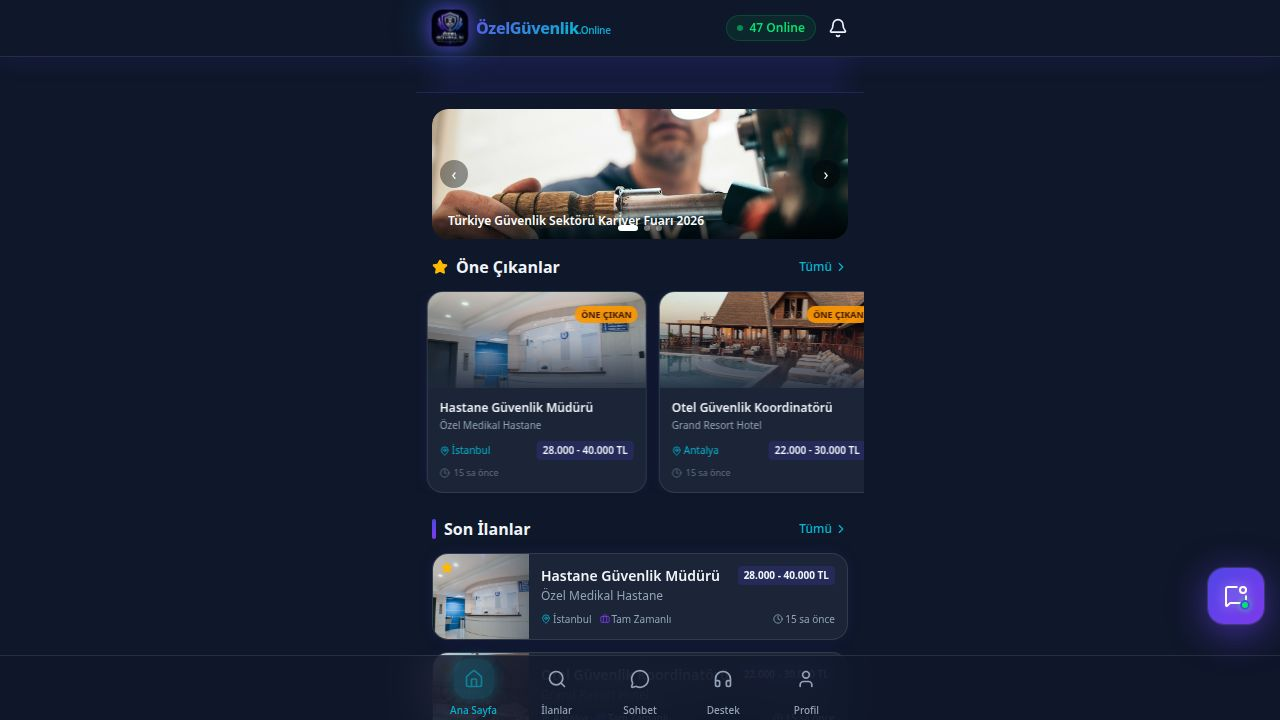
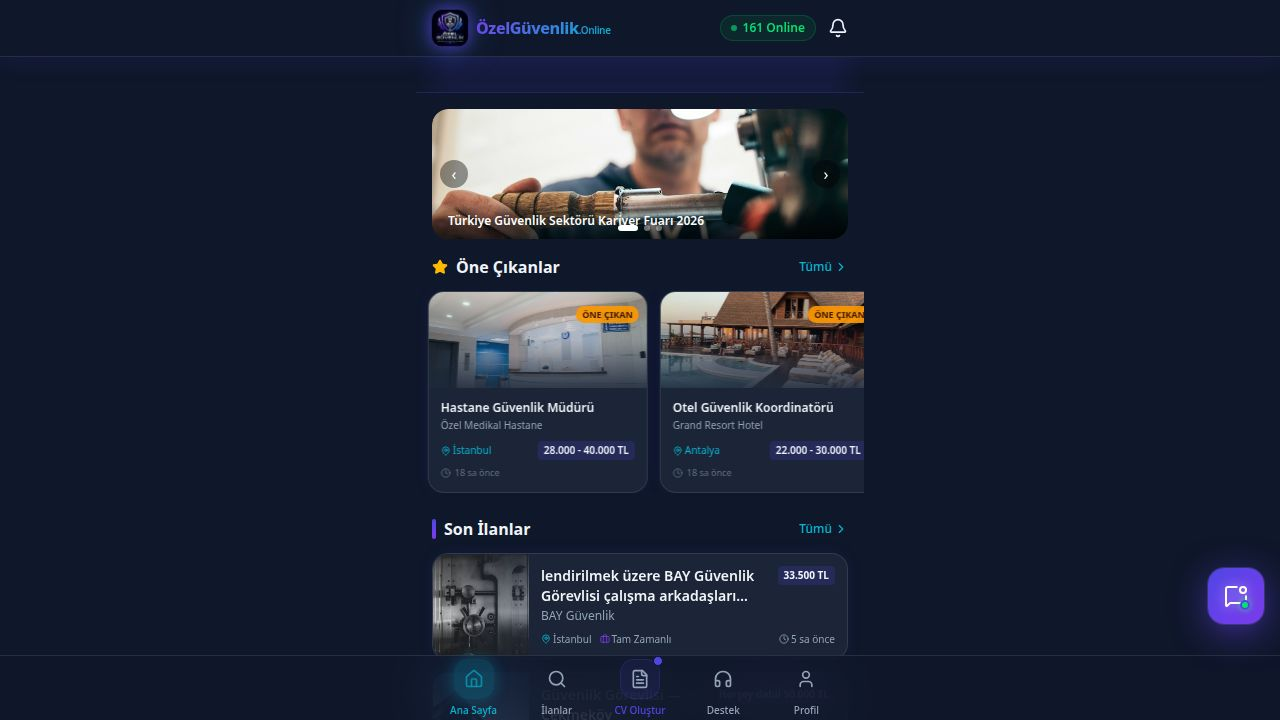
Update PWA cache to ensure latest version is served
Update service worker cache name and version.json to bust the PWA cache and force a fresh download of assets.

Replit-Commit-Author: Agent
Replit-Commit-Session-Id: 4cdea2e6-d00a-4730-9c5d-47da9fec826f
Replit-Commit-Checkpoint-Type: full_checkpoint
Replit-Commit-Event-Id: 1a5abd7f-efc0-4735-9a95-af0dc21b0b1d
Replit-Commit-Screenshot-Url: https://storage.googleapis.com/screenshot-production-us-central1/65e8e92a-d1c8-454b-961b-f1bf0231ebd1/4cdea2e6-d00a-4730-9c5d-47da9fec826f/ZoNHA7T
Replit-Helium-Checkpoint-Created: true

diff --git a/artifacts/ozel-guvenlik/public/sw.js b/artifacts/ozel-guvenlik/public/sw.js
@@ -1,4 +1,4 @@
-const CACHE_NAME = "ozelguvenlik-1780491934700";
+const CACHE_NAME = "ozelguvenlik-1780502474974";
 
 self.addEventListener("install", () => self.skipWaiting());
 